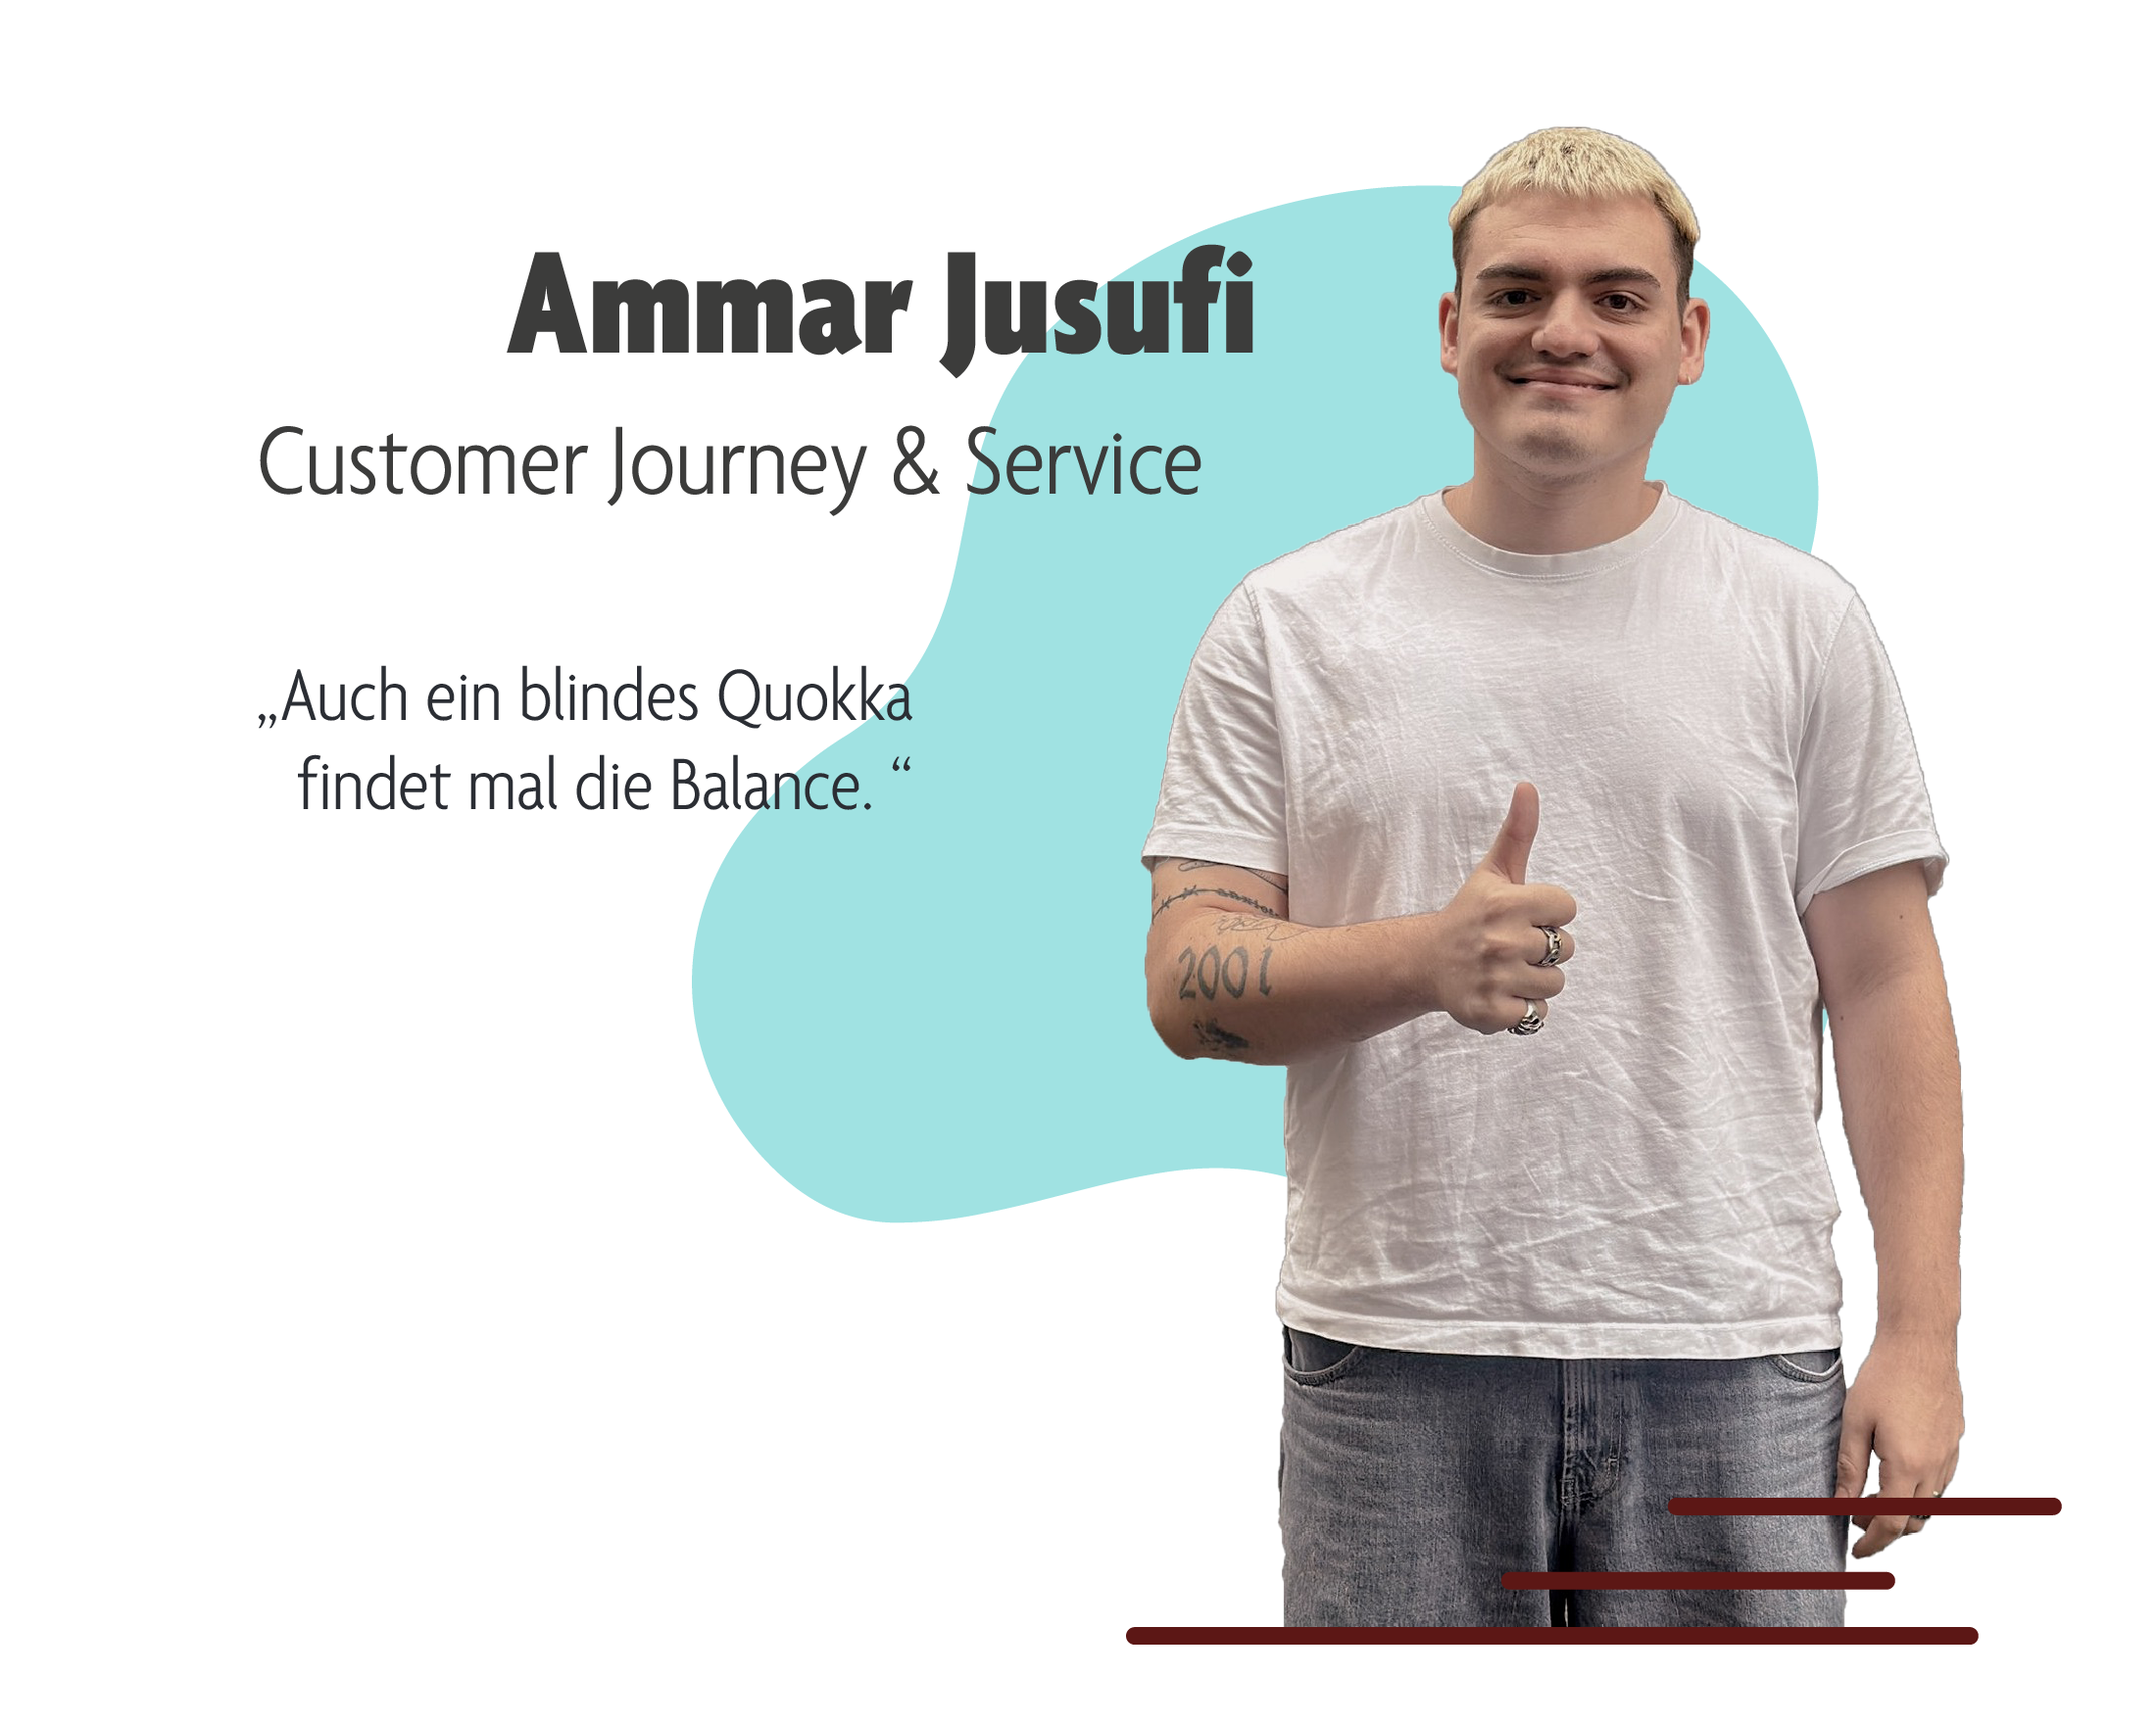
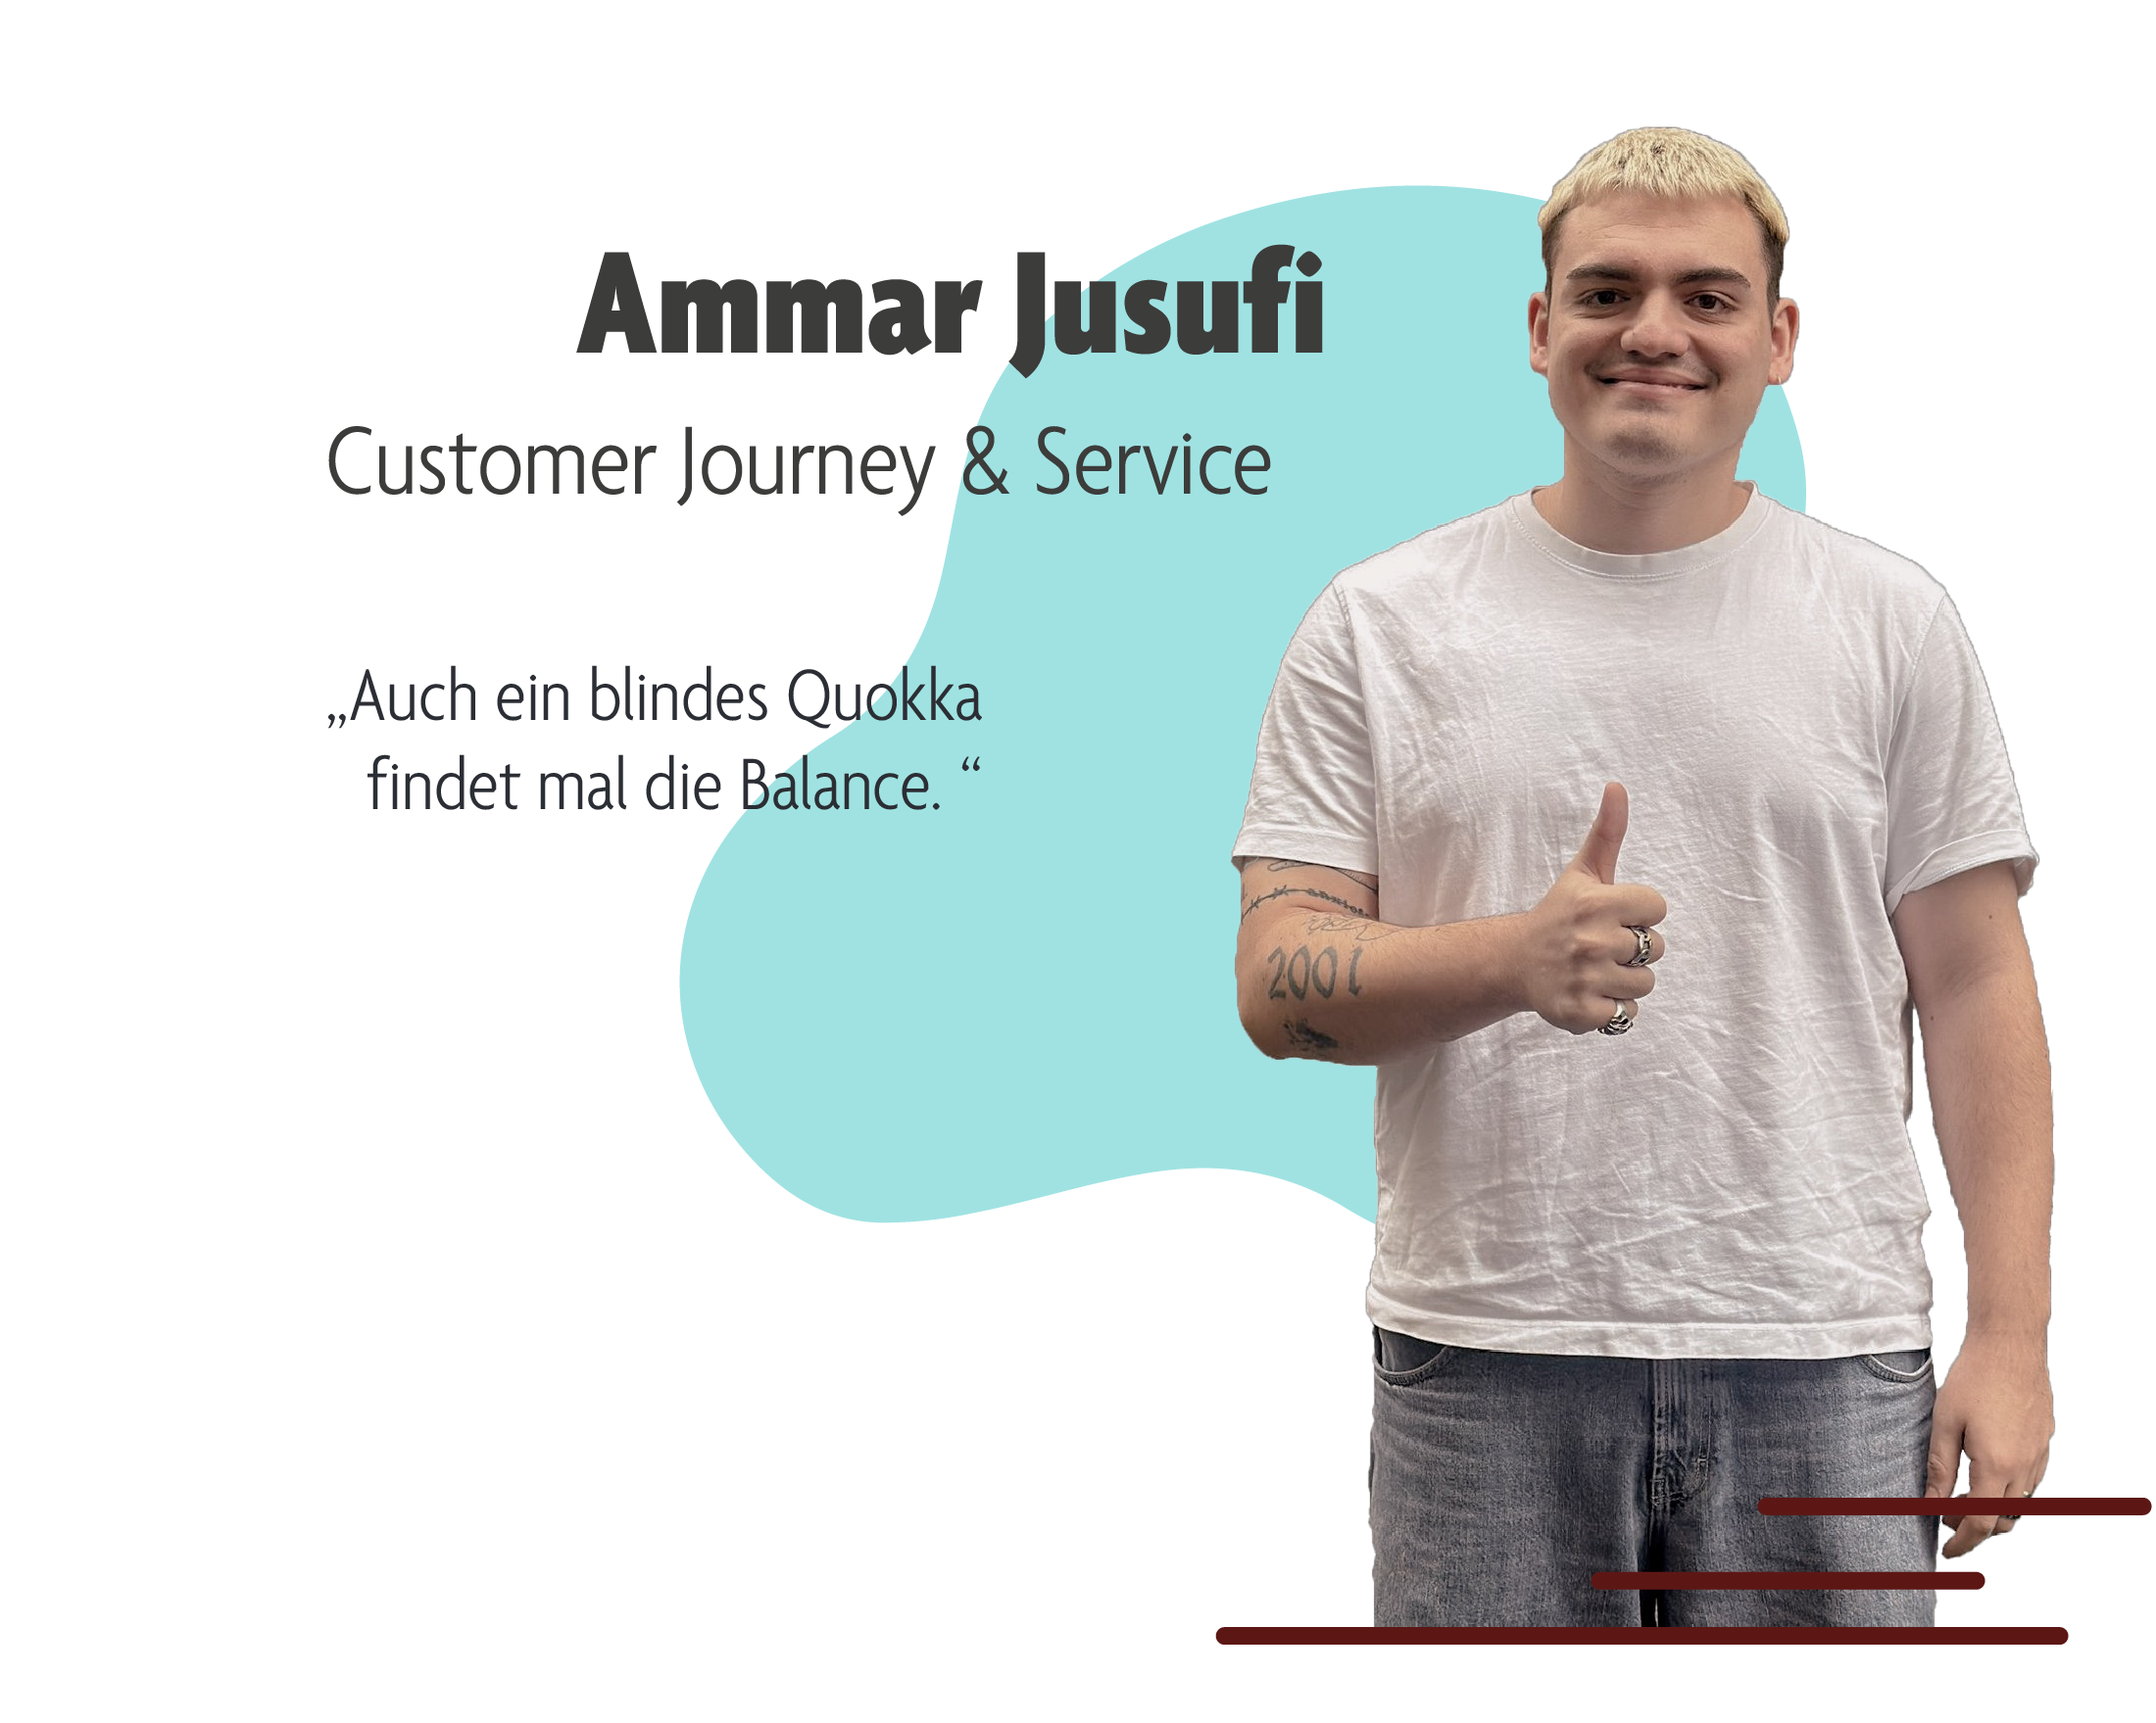
Über Quokka

diff --git a/_css/quokkastyle.css b/_css/quokkastyle.css
@@ -759,13 +759,13 @@ form button:hover {
 
 .ueberquokka-title-image img {
     width: 60%; /* Passt sich der Breite des Formulars an */
-    max-width: 300px; /* Maximale Breite */
+    max-width: 500px; /* Maximale Breite */
     margin-bottom: 20px; /* Abstand nach unten */
     justify-content: center;
 }
 
 .ueberquokka-intro-text{
-    font-size: 1.2rem; /* Standard-Schriftgröße */
+    font-size: 1.8rem; /* Standard-Schriftgröße */
     color: #666; /* Graue Schrift */
     margin: 0 auto 40px; /* Abstand nach unten */
     line-height: 1.5; /* Angenehmer Zeilenabstand */
@@ -802,6 +802,7 @@ form button:hover {
     transform: translateX(-50%);
     display: flex;
     gap: 10px;
+    margin-bottom: 125px;
 }
 
 .icons-left {
@@ -811,6 +812,7 @@ form button:hover {
     transform: translateX(-50%);
     display: flex;
     gap: 10px;
+    margin-bottom: 125px;
 }
 
 .icons img {
@@ -831,7 +833,11 @@ form button:hover {
     transform: scale(1.1);
 }
 
-@media (max-width: 750px) {
+.icons-left img:hover {
+    transform: scale(1.1);
+}
+
+@media (max-width: 1000px) {
     .team-section {
         flex-direction: column;
     }
@@ -876,7 +882,7 @@ form button:hover {
     text-align: center;
     position: absolute;
     top: 20%;
-    left: 50%;
+    left: 10%;
     transform: translate(-50% -50%);
     line-height: 1.4rem;
     width: 80%;
@@ -909,7 +915,7 @@ form button:hover {
 
 .quokka-title-image img {
     width: 60%; /* Passt sich der Breite des Formulars an */
-    max-width: 300px; /* Maximale Breite */
+    max-width: 500px; /* Maximale Breite */
     margin-bottom: 20px; /* Abstand nach unten */
     justify-content: center;
 }
